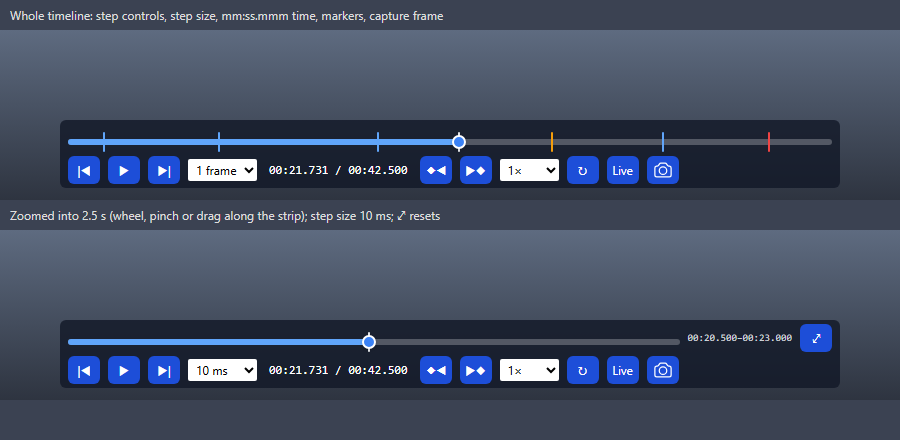
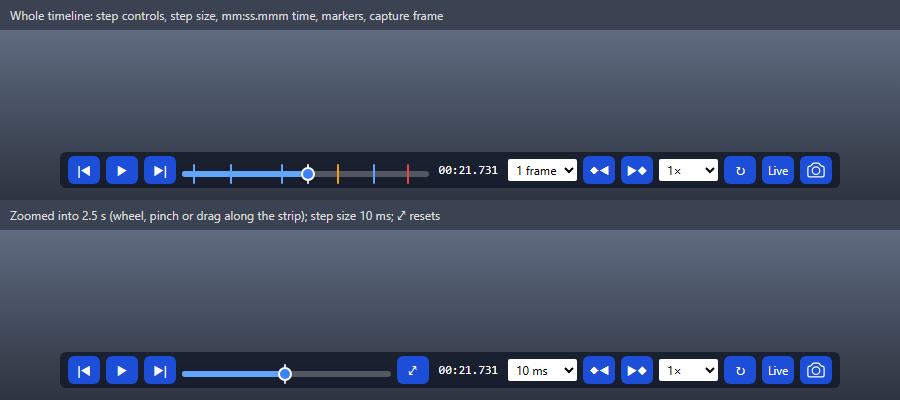
fix(viewer): keep the transport one row high, with a plain range under the scrub bar
The transport had grown a second row, which hid more of the view (the browser tests'
point layers at the foot of the screen). The scrub bar now shares the row with the buttons
again, and the time readout shows the current time with the duration in its tooltip.

The visual bar now holds a transparent native range input labelled "Time". It serves the
keyboard, screen readers and automation (get_by_label("Time").fill(...)), and the pointer
passes through it to the bar's own fine-scrub and zoom handlers.

Claude-Session: https://claude.ai/code/session_013iYuG4YFwFG26voMv9GEYi

diff --git a/src/frontend/src/components/playback/PlaybackTransport.tsx b/src/frontend/src/components/playback/PlaybackTransport.tsx
@@ -95,11 +95,11 @@ const TimeReadout: React.FC<{ time: number; duration: number }> = ({ time, durat
     <button
       type="button"
       className="shrink-0 rounded-sm px-1 font-mono tabular-nums hover:bg-white/10"
-      title="Click to type a time to go to"
+      title={`${preciseClockText(time)} of ${preciseClockText(duration)}. Click to type a time to go to`}
       data-playback-time="true"
       onClick={() => setEditing(preciseClockText(time))}
     >
-      {preciseClockText(time)} / {preciseClockText(duration)}
+      {preciseClockText(time)}
     </button>
   );
 };
@@ -179,9 +179,10 @@ const PlaybackTransport: React.FC = () => {
     playbackClock.step(direction, view.stepSize, { shift: e.shiftKey, alt: e.altKey });
   return (
     <div
-      // The scrub bar has a row of its own and the buttons wrap under it, so none of them is
-      // squeezed off the bar.
-      className="absolute bottom-3 left-1/2 z-10 flex w-[min(96%,780px)] -translate-x-1/2 flex-wrap items-center gap-x-2 gap-y-1 rounded-md bg-gray-900/80 px-2 py-1 text-xs text-white"
+      // One row where it fits, no taller than before so it hides no more of the view. On a phone
+      // the scrub bar takes a row of its own (./ScrubBar.tsx) and the buttons wrap under it, so
+      // none of them is squeezed off the bar.
+      className="absolute bottom-3 left-1/2 z-10 flex w-[min(96%,780px)] -translate-x-1/2 flex-wrap items-center gap-x-1.5 gap-y-1 rounded-md bg-gray-900/80 px-2 py-1 text-xs text-white"
       data-playback-transport="true"
       data-playing={state.playing ? "true" : "false"}
       // A press on the transport is not a press on the model under it.
@@ -190,33 +191,6 @@ const PlaybackTransport: React.FC = () => {
       onDoubleClick={(e) => e.stopPropagation()}
       onWheel={(e) => e.stopPropagation()}
     >
-      <div className="flex w-full basis-full items-center gap-2">
-        <ScrubBar
-          time={state.time}
-          duration={state.duration}
-          view={shown}
-          markers={markers}
-          onSeek={(t) => playbackClock.seek(t)}
-          onZoom={(w) => timelineView.setZoom(w, state.duration)}
-        />
-        {zoomed && (
-          <span className="shrink-0 font-mono text-[10px] tabular-nums text-gray-300" data-playback-zoom-window="true">
-            {preciseClockText(shown.start)}–{preciseClockText(shown.end)}
-          </span>
-        )}
-        {zoomed && (
-          <button
-            type="button"
-            className={button()}
-            title="Show the whole timeline again"
-            aria-label="Reset zoom"
-            data-playback-zoom-reset="true"
-            onClick={() => timelineView.resetZoom()}
-          >
-            ⤢
-          </button>
-        )}
-      </div>
       <button
         type="button"
         className={button()}
@@ -247,6 +221,28 @@ const PlaybackTransport: React.FC = () => {
         ▶|
       </button>
       {actions.filter((a) => a.spec.beside === "play").map(actionButton)}
+      <ScrubBar
+        time={state.time}
+        duration={state.duration}
+        view={shown}
+        markers={markers}
+        onSeek={(t) => playbackClock.seek(t)}
+        onZoom={(w) => timelineView.setZoom(w, state.duration)}
+      />
+      {zoomed && (
+        <button
+          type="button"
+          className={button()}
+          title={`Zoomed into ${preciseClockText(shown.start)}–${preciseClockText(shown.end)}: show the whole timeline again`}
+          aria-label="Reset zoom"
+          data-playback-zoom-reset="true"
+          data-playback-zoom-window={`${preciseClockText(shown.start)}–${preciseClockText(shown.end)}`}
+          onClick={() => timelineView.resetZoom()}
+        >
+          ⤢
+        </button>
+      )}
+      <TimeReadout time={state.time} duration={state.duration} />
       <select
         className={SELECT}
         aria-label="Step size"
@@ -261,7 +257,6 @@ const PlaybackTransport: React.FC = () => {
           </option>
         ))}
       </select>
-      <TimeReadout time={state.time} duration={state.duration} />
       {markers.length > 0 && (
         <>
           <button

diff --git a/src/frontend/src/components/playback/ScrubBar.tsx b/src/frontend/src/components/playback/ScrubBar.tsx
@@ -222,7 +222,9 @@ const ScrubBar: React.FC<ScrubBarProps> = ({ time, duration, view, markers, onSe
   const pct = (t: number) => `${(Math.max(0, Math.min(1, timeToFraction(t, view))) * 100).toFixed(3)}%`;
 
   return (
-    <div className="flex min-w-0 flex-1 flex-col" data-playback-scrub-wrap="true">
+    // On a phone the bar takes a row of its own (`order` and `basis-full`) and the buttons wrap
+    // under it; from `sm` up it shares the one row with them.
+    <div className="order-first flex min-w-0 flex-1 basis-full flex-col sm:order-none sm:min-w-[120px] sm:basis-0" data-playback-scrub-wrap="true">
       <div
         className="relative h-2 cursor-crosshair touch-none rounded-sm hover:bg-white/10"
         title="Drag along here to zoom into a range"
@@ -242,14 +244,7 @@ const ScrubBar: React.FC<ScrubBarProps> = ({ time, duration, view, markers, onSe
       </div>
       <div
         ref={barRef}
-        role="slider"
-        tabIndex={0}
-        aria-label="Time"
-        aria-valuemin={0}
-        aria-valuemax={duration}
-        aria-valuenow={Math.min(time, duration)}
-        aria-valuetext={preciseClockText(time)}
-        className="relative h-8 cursor-pointer touch-none select-none sm:h-5 focus-visible:outline-none focus-visible:ring-2 focus-visible:ring-blue-300 rounded-sm"
+        className="relative h-8 cursor-pointer touch-none select-none rounded-sm sm:h-5 has-[:focus-visible]:ring-2 has-[:focus-visible]:ring-blue-300"
         data-playback-scrub="true"
         data-scrub-scale={scale}
         onPointerDown={onPointerDown}
@@ -260,6 +255,20 @@ const ScrubBar: React.FC<ScrubBarProps> = ({ time, duration, view, markers, onSe
           endDrag();
         }}
       >
+        {/* The bar to the keyboard, a screen reader and automation: a plain range over the window
+            shown, which the pointer passes through (the bar's own handlers scrub). Its arrow keys
+            are the transport's steps (./playbackKeys.ts). */}
+        <input
+          type="range"
+          className="pointer-events-none absolute inset-0 h-full w-full opacity-0"
+          aria-label="Time"
+          aria-valuetext={preciseClockText(time)}
+          min={view.start}
+          max={view.end || 1}
+          step="any"
+          value={Math.max(view.start, Math.min(time, view.end))}
+          onChange={(e) => onSeek(Number(e.target.value))}
+        />
         <div className="absolute inset-x-0 top-1/2 h-1.5 -translate-y-1/2 rounded-full bg-white/25" />
         <div className="absolute left-0 top-1/2 h-1.5 -translate-y-1/2 rounded-full bg-blue-400" style={{ width: `${(fraction * 100).toFixed(3)}%` }} />
         {selection && (

diff --git a/src/frontend/src/__tests__/components/playbackTransportScrub.test.tsx b/src/frontend/src/__tests__/components/playbackTransportScrub.test.tsx
@@ -101,9 +101,9 @@ test("the transport draws the step controls, the precise time, the markers and t
     assert.match(html, /aria-label="Step forward"/);
     assert.match(html, /aria-label="Step size"/);
     assert.match(html, /<option value="frame" selected="">1 frame<\/option>/);
-    assert.match(html, /01:01\.250 \/ 01:23\.500/);
+    assert.match(html, /title="01:01\.250 of 01:23\.500\. Click to type a time to go to"[^>]*>01:01\.250</);
     assert.match(html, /aria-label="Capture frame"/);
-    assert.match(html, /role="slider"[^>]*aria-label="Time"/);
+    assert.match(html, /type="range"[^>]*aria-label="Time"/, "a plain range, for the keyboard, a screen reader and automation");
     assert.doesNotMatch(html, /aria-label="Next marker"/, "no markers: no marker buttons");
     assert.doesNotMatch(html, /aria-label="Reset zoom"/, "not zoomed: nothing to reset");
     playbackClock.setMarkers("run", [{ t: 10, label: "Weld pass 1", kind: "stage" }, { t: 70, label: "Contact", kind: "error" }]);
